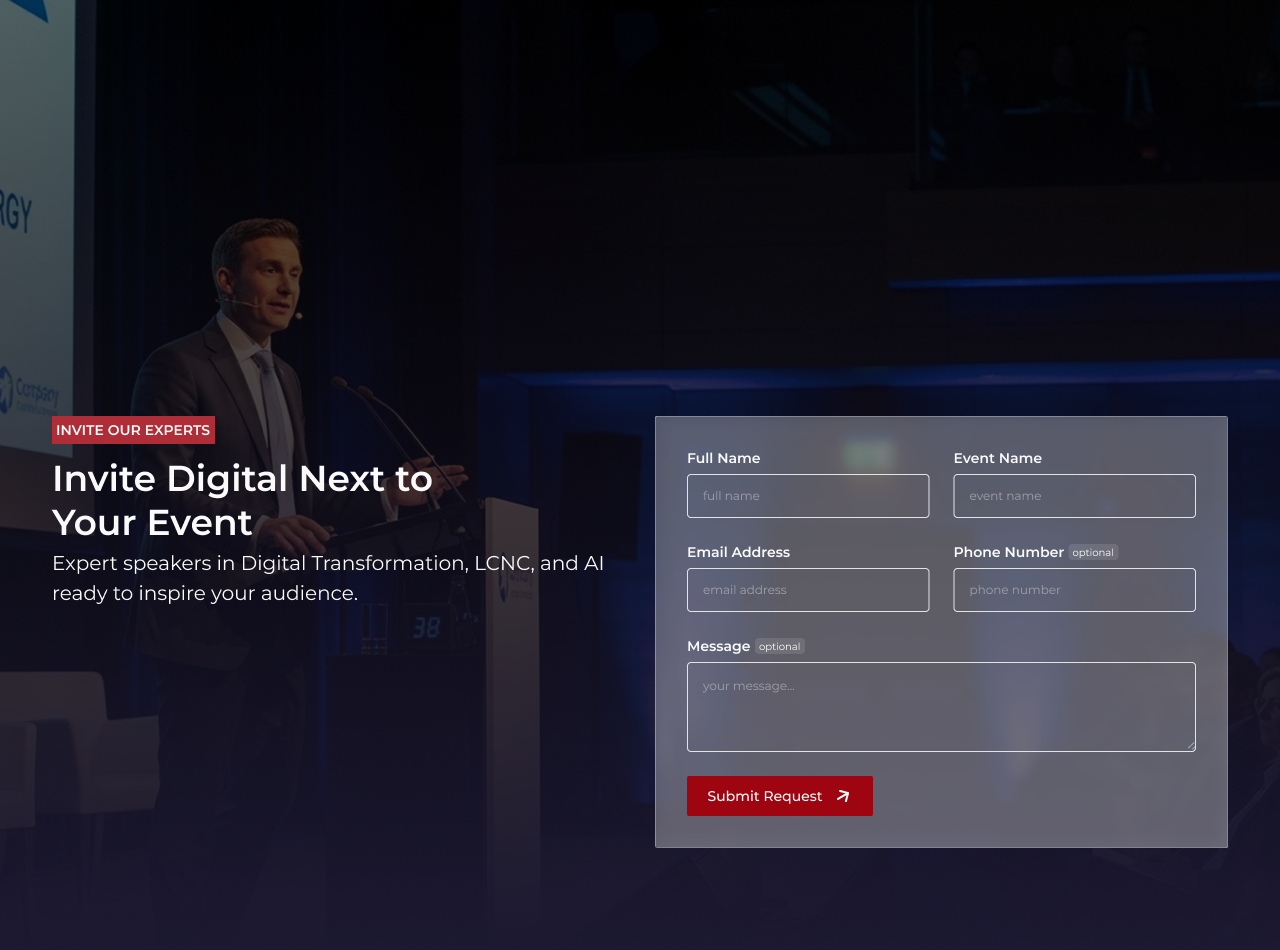
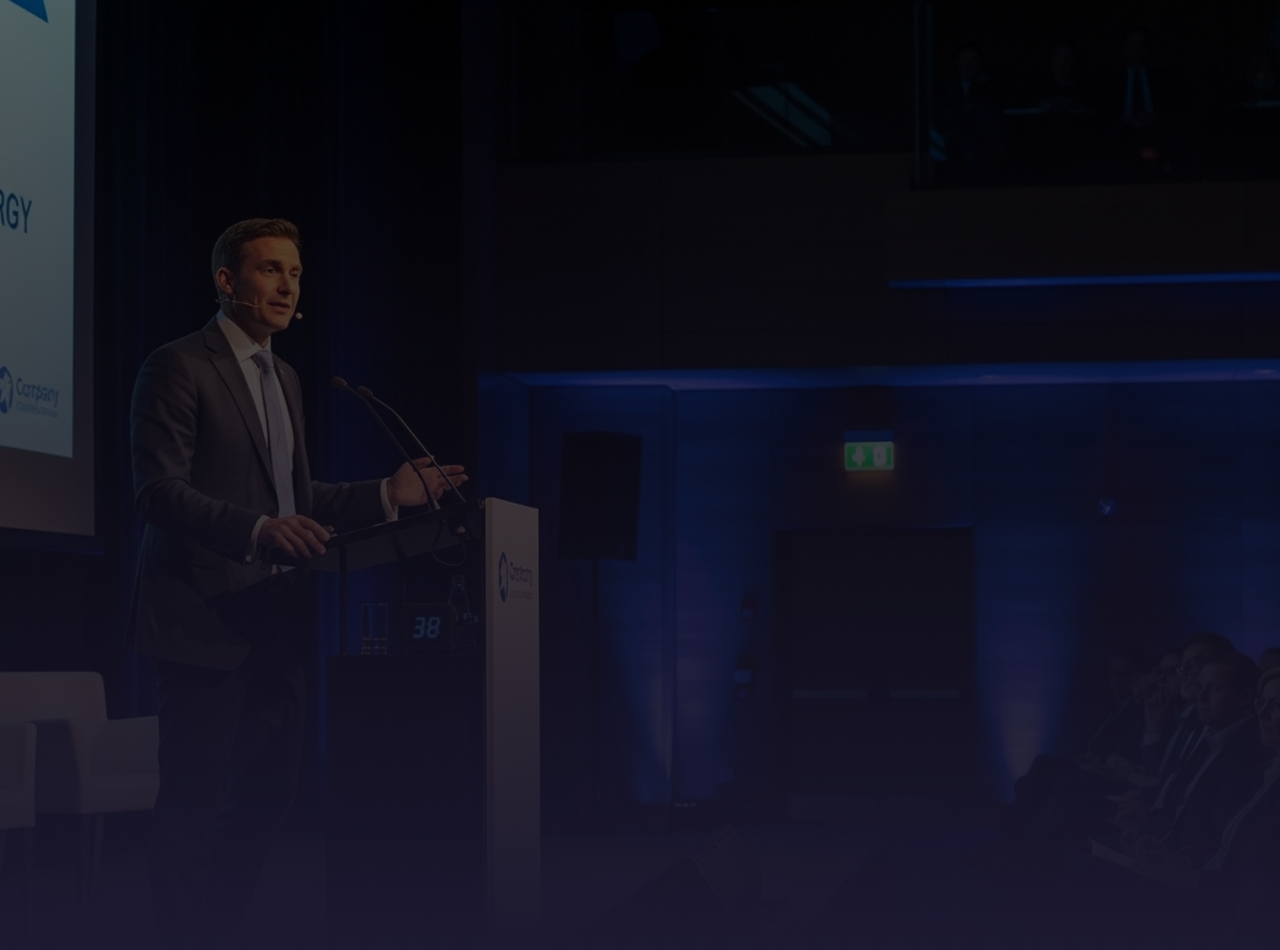
Refactor code structure for improved readability and maintainability

Changed region(s): [[0.5, 0.4274, 0.9688, 0.9158], [0.0312, 0.4274, 0.4688, 0.6411]]

diff --git a/index.html b/index.html
@@ -230,25 +230,26 @@
       position: absolute;
       top: 0;
       right: 0;
-      bottom: 0;
-      width: clamp(170px, 18.2vw, 255px);
-      min-height: 0;
+      width: clamp(200px, 20vw, 300px);
+      height: 100vh;
       background: transparent;
       display: flex;
-      align-items: stretch;
+      align-items: center;
       justify-content: center;
       overflow: hidden;
       z-index: 3;
       pointer-events: none;
     }
     .hero-shape-rail svg {
-      width: 100%;
+      width: auto;
       height: 100%;
       display: block;
     }
     .hero-bg {
       position: absolute;
       inset: 0;
+      -webkit-mask-image: linear-gradient(to right, black 60%, transparent 100%);
+      mask-image: linear-gradient(to right, black 60%, transparent 100%);
     }
     .hero-bg::after {
       content: '';
@@ -266,8 +267,10 @@
       position: relative;
       z-index: 2;
       width: 100%;
+      max-width: 1400px;
+      margin: 0 auto;
       min-height: 100vh;
-      padding: clamp(108px, 17vh, 150px) var(--header-side-pad) clamp(24px, 5vh, 42px);
+      padding: clamp(108px, 17vh, 150px) 52px clamp(24px, 5vh, 42px);
       display: flex;
       align-items: flex-end;
     }
@@ -354,6 +357,7 @@
     .hero-circle-btn:hover .hero-circle-inner svg { transform: translate(3px, -3px); }
 
     @media (max-width: 1024px) {
+      .hero-content { padding-left: 32px; padding-right: 32px; }
       .hero-title { font-size: clamp(42px, 5vw, 56px); }
       .hero-sub { font-size: clamp(18px, 2.3vw, 30px); }
     }
@@ -1480,9 +1484,9 @@
     .meet-team-section .team-image {
       display: block;
       width: 100%;
-      aspect-ratio: 1 / 1;
+      aspect-ratio: 3 / 4;
       object-fit: cover;
-      object-position: center top;
+      object-position: center 20%;
     }
     .meet-team-section .team-info {
       position: absolute;
@@ -2009,7 +2013,7 @@
 <section id="hero">
   <div class="hero-main">
     <div class="hero-bg">
-      <img src="https://images.unsplash.com/photo-1614850523459-c2f4c699c52e?w=1920&q=80" alt="Hero background" />
+      <img src="images/hero bg.png" alt="Hero background" />
     </div>
     <div class="hero-content">
       <div class="hero-title-block">
@@ -2038,7 +2042,7 @@
     </div>
   </div>
   <aside class="hero-shape-rail" aria-hidden="true">
-<svg width="255" height="879" viewBox="0 0 255 879" fill="none" xmlns="http://www.w3.org/2000/svg" xmlns:xlink="http://www.w3.org/1999/xlink">
+<svg width="255" height="879" viewBox="0 0 255 879" preserveAspectRatio="xMidYMid meet" fill="none" xmlns="http://www.w3.org/2000/svg" xmlns:xlink="http://www.w3.org/1999/xlink">
 <path d="M153.141 -2.75534C147.61 -3.30582 143.062 1.23272 143.062 6.79131L143.062 196.634C143.062 202.193 147.61 206.731 153.141 206.181C207.53 200.768 249.963 156.062 249.963 101.713C249.963 47.3632 207.53 2.65756 153.141 -2.75534Z" fill="#1C1932"/>
 <path d="M98.5485 58.4033C73.9661 58.4033 54.0361 77.7929 54.0361 101.713C54.0361 125.633 73.9661 145.022 98.5485 145.022C123.131 145.022 143.063 125.631 143.063 101.713C143.063 77.7946 123.133 58.4033 98.5485 58.4033Z" fill="#1C1932"/>
 <path d="M151.896 233.118C151.896 224.237 141.182 219.762 134.866 226.005L52.5504 307.364C50.6498 309.243 49.5801 311.804 49.5801 314.477V387.089C49.5801 395.97 60.2934 400.444 66.6097 394.201L148.925 312.842C150.826 310.964 151.896 308.402 151.896 305.73V233.118Z" fill="#1C1932"/>
